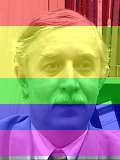
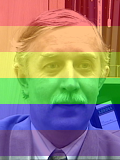
fix colors and paths

diff --git a/Program.cs b/Program.cs
@@ -51,47 +51,47 @@ namespace IMGapp
                             int b = pix.B;
 
                             //lgbt flag
-                            int h_av = h / 6;                            
+                            int h_av = h / 6;
                             switch (i / h_av)
                             {
                                 case (0):
                                     //red
-                                    r = (int)Clamp(r * 255, 0, 255);
-                                    g = (int)Clamp(g * 0, 0, 255);
-                                    b = (int)Clamp(b * 0, 0, 255);
+                                    r = 255;
+                                    g = 0;
+                                    b = 0;
                                     break;
                                 case (1):
                                     //orange
-                                    r = (int)Clamp(r * 128, 0, 255);
-                                    g = (int)Clamp(g * 255, 0, 255);
-                                    b = (int)Clamp(b * 0, 0, 255);
+                                    r = 255;
+                                    g = 128;
+                                    b = 0;
                                     break;
                                 case (2):
                                     //yellow
-                                    r = (int)Clamp(r * 255, 0, 255);
-                                    g = (int)Clamp(g * 255, 0, 255);
-                                    b = (int)Clamp(b * 0, 0, 255);
+                                    r = 255;
+                                    g = 255;
+                                    b = 0;
                                     break;
                                 case (3):
                                     //green
-                                    r = (int)Clamp(r * 0, 0, 255);
-                                    g = (int)Clamp(g * 255, 0, 255);
-                                    b = (int)Clamp(b * 0, 0, 255);
+                                    r = 0;
+                                    g = 255;
+                                    b = 0;
                                     break;
                                 case (4):
                                     //blue
-                                    r = (int)Clamp(r * 0, 0, 255);
-                                    g = (int)Clamp(g * 0, 0, 255);
-                                    b = (int)Clamp(b * 255, 0, 255);
+                                    r = 0;
+                                    g = 0;
+                                    b = 255;
                                     break;
                                 case (5):
                                     //purple
-                                    r = (int)Clamp(r * 128, 0, 255);
-                                    g = (int)Clamp(g * 0, 0, 255);
-                                    b = (int)Clamp(b * 255, 0, 255);
+                                    r = 75;
+                                    g = 0;
+                                    b = 130;
                                     break;
                             }
-                               
+
 
                             //При вычислении пикселей используем функию Clamp (см. ниже Main) чтобы цвет не вылезал за границы [0 255]
 
@@ -112,17 +112,17 @@ namespace IMGapp
                     //сохраним нашу выходную картинку 
                     img_out.Save("..\\..\\lgbt.jpg");
 
-                    System.Drawing.Image primaryImage = Image.FromFile(@"C:\Users\student\source\repos\Image_lab1\in.jpg");//or resource..
+                    System.Drawing.Image primaryImage = Image.FromFile("..\\..\\in.jpg");//or resource..
 
                     using (Graphics graphics = Graphics.FromImage(primaryImage))//get the underlying graphics object from the image.
                     {
-                        System.Drawing.Image overlayImage = Image.FromFile(@"C:\Users\student\source\repos\Image_lab1\lgbt.jpg");
+                        System.Drawing.Image overlayImage = Image.FromFile("..\\..\\lgbt.jpg");
                            {
                             graphics.DrawImage(overlayImage, new Point(0, 0));//this will draw the overlay image over the base image at (0, 0) coordination.
                            }
                     }
                     System.Drawing.Image Control = primaryImage;
-                    Control.Save("C:\\Users\\student\\source\\repos\\Image_lab1\\lgbtpic.png", ImageFormat.Png);
+                    Control.Save("..\\..\\lgbtpic.png", ImageFormat.Png);
 
 
                     Console.ReadKey();
